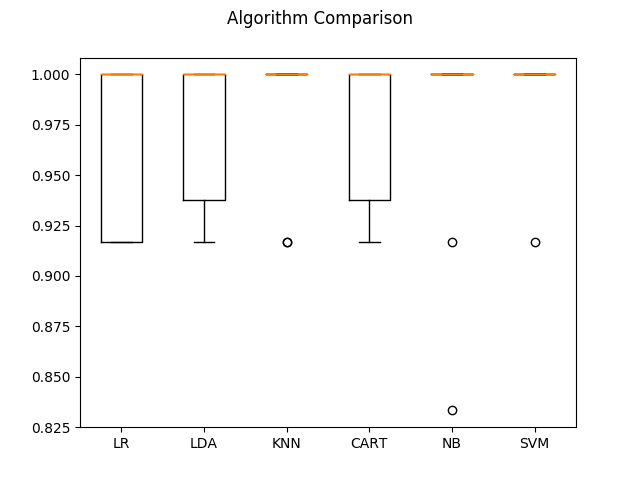
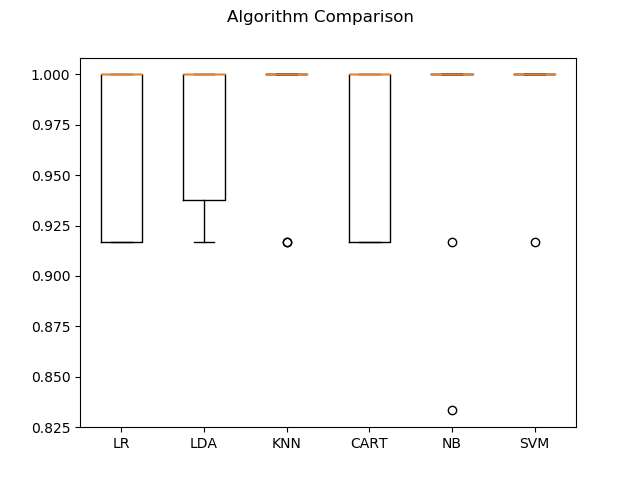
wine.py complete

Changed region(s): [[0.3438, 0.0, 0.6562, 0.0625], [0.5312, 0.4062, 0.625, 0.5312], [0.4375, 0.9062, 0.4688, 0.9375]]

diff --git a/wine.py b/wine.py
@@ -40,7 +40,7 @@ print('sklearn: {}'.format(sklearn.__version__))
 
 # Load dataset
 #url = "https://raw.githubusercontent.com/jbrownlee/Datasets/master/iris.csv"
-names = ['class', 'Alcohol', 'Malic acid', 'Ash', 'Alcalinity of ash', 'Magnesium', 'Total phenols', 'Flavanoids', 'Nonflavanoid phenols', 'Proanthocyanins', 'Color intensity', 'Hue', 'OD280/OD315 of diluted wines', 'Proline']
+names = ['class', 'Alcohol', 'Malic acid', 'Ash', 'Alcalinity of ash', 'Magnesium', 'phenols', 'Flavanoids', 'Nonflavanoid', 'Proanthocyanins', 'Color', 'Hue', 'diluted wines', 'Proline']
 
 #context = ssl._create_unverified_context()
 
@@ -59,11 +59,67 @@ print(dataset.describe())
 
 # box and whisker plots
 #dataset.plot(kind='box', subplots=True, layout=(2,2), sharex=False, sharey=False)
+
+#dataset.plot(kind='box', subplots=True, layout=(14,14), sharex=False, sharey=False)
+
 #plt.savefig('plot.png')
 
 # histograms
-dataset.hist()
-plt.savefig('hist.png')
+#dataset.hist()
+#plt.savefig('hist.png')
 
 # class distribution
-#print(dataset.groupby('class').size())
+print(dataset.groupby('class').size())
+
+#scatter_matrix(dataset)
+
+#plt.savefig('scattermatrix.png', alpha=0.5, figsize=(20, 10), diagonal='kde', s=1000, layout=(14,14))
+
+# Split-out validation dataset
+array = dataset.values
+X = array[:,1:13]
+Y = array[:,0]
+validation_size = 0.20
+seed = 7
+X_train, X_validation, Y_train, Y_validation = model_selection.train_test_split(X, Y, test_size=validation_size, random_state=seed)
+
+# Test options and evaluation metric
+seed = 7
+scoring = 'accuracy'
+
+print(X_train)
+print()
+print(X_validation)
+print()
+print(Y_train)
+print()
+print(Y_validation)
+
+
+# Spot Check Algorithms
+models = []
+models.append(('LR', LogisticRegression(solver='liblinear', multi_class='ovr')))
+models.append(('LDA', LinearDiscriminantAnalysis()))
+models.append(('KNN', KNeighborsClassifier()))
+models.append(('CART', DecisionTreeClassifier()))
+models.append(('NB', GaussianNB()))
+models.append(('SVM', SVC(gamma='auto')))
+# evaluate each model in turn
+results = []
+names = []
+for name, model in models:
+	kfold = model_selection.KFold(n_splits=10, random_state=seed)
+	cv_results = model_selection.cross_val_score(model, X_train, Y_train, cv=kfold, scoring=scoring)
+	results.append(cv_results)
+	names.append(name)
+	msg = "%s: %f (%f)" % (name, cv_results.mean(), cv_results.std())
+	print(msg)
+
+
+
+lda = LinearDiscriminantAnalysis()
+lda.fit(X_train, Y_train)
+predictions = lda.predict(X_validation)
+print(accuracy_score(Y_validation, predictions))
+print(confusion_matrix(Y_validation, predictions))
+print(classification_report(Y_validation, predictions))

diff --git a/iris.py b/iris.py
@@ -1,6 +1,8 @@
 # Load libraries
 import pandas
 from pandas.plotting import scatter_matrix
+import matplotlib
+matplotlib.use('Agg')
 import matplotlib.pyplot as plt
 from sklearn import model_selection
 from sklearn.metrics import classification_report
@@ -40,7 +42,7 @@ names = ['sepal-length', 'sepal-width', 'petal-length', 'petal-width', 'class']
 
 #context = ssl._create_unverified_context()
 
-dataset = pandas.read_csv('iris.csv', names=names)
+dataset = pandas.read_csv('data/iris.csv', names=names)
 
 
 # box and whisker plots
@@ -54,6 +56,14 @@ Y = array[:,4]
 validation_size = 0.20
 seed = 7
 X_train, X_validation, Y_train, Y_validation = model_selection.train_test_split(X, Y, test_size=validation_size, random_state=seed)
+
+print(X_train)
+print()
+print(X_validation)
+print()
+print(Y_train)
+print()
+print(Y_validation)
 
 # Test options and evaluation metric
 seed = 7
